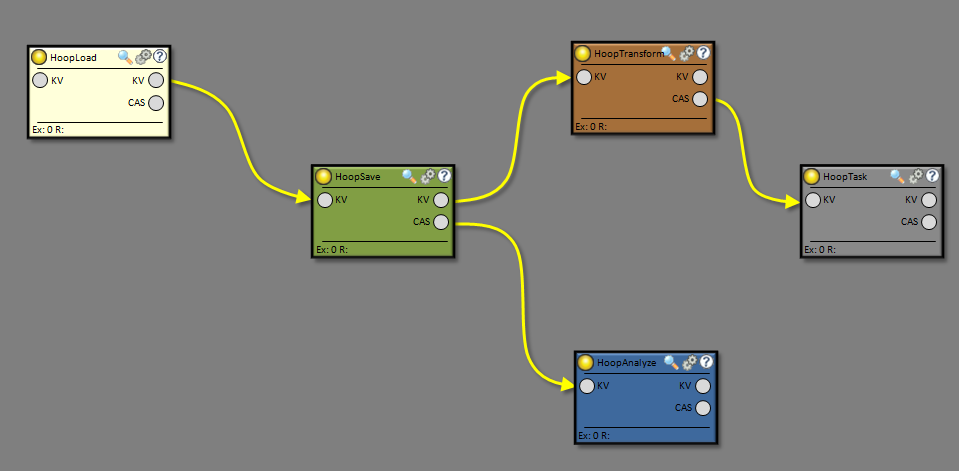
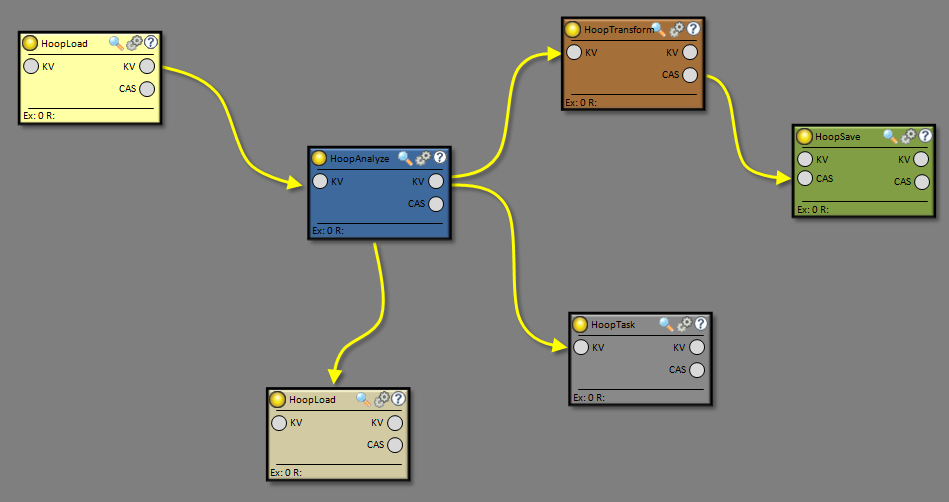
Small adjustments to the hoop coloring

diff --git a/src/edu/cmu/cs/in/hoop/editor/HoopNodePanel.java b/src/edu/cmu/cs/in/hoop/editor/HoopNodePanel.java
@@ -39,6 +39,7 @@ import edu.cmu.cs.in.hoop.execute.HoopExecuteInEditor;
 import edu.cmu.cs.in.hoop.hoops.base.HoopAnalyze;
 import edu.cmu.cs.in.hoop.hoops.base.HoopBase;
 import edu.cmu.cs.in.hoop.hoops.base.HoopControlBase;
+import edu.cmu.cs.in.hoop.hoops.base.HoopDisplayBase;
 import edu.cmu.cs.in.hoop.hoops.base.HoopLoadBase;
 import edu.cmu.cs.in.hoop.hoops.base.HoopSaveBase;
 import edu.cmu.cs.in.hoop.hoops.base.HoopTransformBase;
@@ -206,7 +207,7 @@ public class HoopNodePanel extends HoopNodeRenderer implements HoopVisualReprese
 		
 		if (this.hoop instanceof HoopLoadBase)
 		{
-			backgrColor=new Color (255,255,218);	
+			backgrColor=new Color (255,255,165);	
 		}
 		
 		if (this.hoop instanceof HoopSaveBase)
@@ -227,8 +228,13 @@ public class HoopNodePanel extends HoopNodeRenderer implements HoopVisualReprese
 		if (this.hoop instanceof HoopAnalyze)
 		{
 			backgrColor=new Color (62,105,157);
-		}		
+		}
 		
+		if (this.hoop instanceof HoopDisplayBase)
+		{
+			backgrColor=new Color (209,202,163);
+		}
+						
 		setBackground(backgrColor);
 		titleBar.setBackground(backgrColor);
 		toolBar.setBackground(backgrColor);

diff --git a/src/edu/cmu/cs/in/hoop/hoops/base/HoopDisplayBase.java b/src/edu/cmu/cs/in/hoop/hoops/base/HoopDisplayBase.java
@@ -18,12 +18,12 @@
 
 package edu.cmu.cs.in.hoop.hoops.base;
 
-import java.util.ArrayList;
+//import java.util.ArrayList;
 
-import edu.cmu.cs.in.base.HoopLink;
-import edu.cmu.cs.in.base.kv.HoopKV;
+//import edu.cmu.cs.in.base.HoopLink;
+//import edu.cmu.cs.in.base.kv.HoopKV;
 import edu.cmu.cs.in.controls.HoopSentenceWall;
-import edu.cmu.cs.in.controls.HoopVisualSentence;
+//import edu.cmu.cs.in.controls.HoopVisualSentence;
 import edu.cmu.cs.in.controls.base.HoopEmbeddedJPanel;
 
 /**

diff --git a/src/HoopRemoteTask.java b/src/HoopRemoteTask.java
@@ -47,7 +47,7 @@ import org.apache.hadoop.util.*;
 import edu.cmu.cs.in.search.HoopDataSet;
 import edu.cmu.cs.in.base.HoopRoot;
 import edu.cmu.cs.in.base.HoopStringTools;
-import edu.cmu.cs.in.base.io.HoopFileManager;
+//import edu.cmu.cs.in.base.io.HoopFileManager;
 import edu.cmu.cs.in.base.HoopLink;
 import edu.cmu.cs.in.stats.HoopPerformanceMeasure;
 import edu.cmu.cs.in.stats.HoopStatistics;

diff --git a/src/Hoop.java b/src/Hoop.java
@@ -207,7 +207,7 @@ public class Hoop
 		}           
           
         UIDefaults defaults = UIManager.getLookAndFeelDefaults();  
-        defaults.put("Separator.foreground", new ColorUIResource(100,100,100));  
+        defaults.put("Separator.foreground", new ColorUIResource(0,0,0));  
         
         frame=new HoopMainFrame ();
         frame.setResizable(true);

diff --git a/src/BreadCrumbTest.java b/src/BreadCrumbTest.java
@@ -47,10 +47,9 @@ import org.pushingpixels.flamingo.api.common.StringValuePair;
 
 public class BreadCrumbTest extends JFrame 
 {
+	private static final long serialVersionUID = -8486789898611546556L;
 	protected BreadcrumbFileSelector bar;
-
 	protected ExplorerFileViewPanel<File> filePanel;
-
 	protected JScrollPane fileListScrollPane;
 
 	public BreadCrumbTest() 
